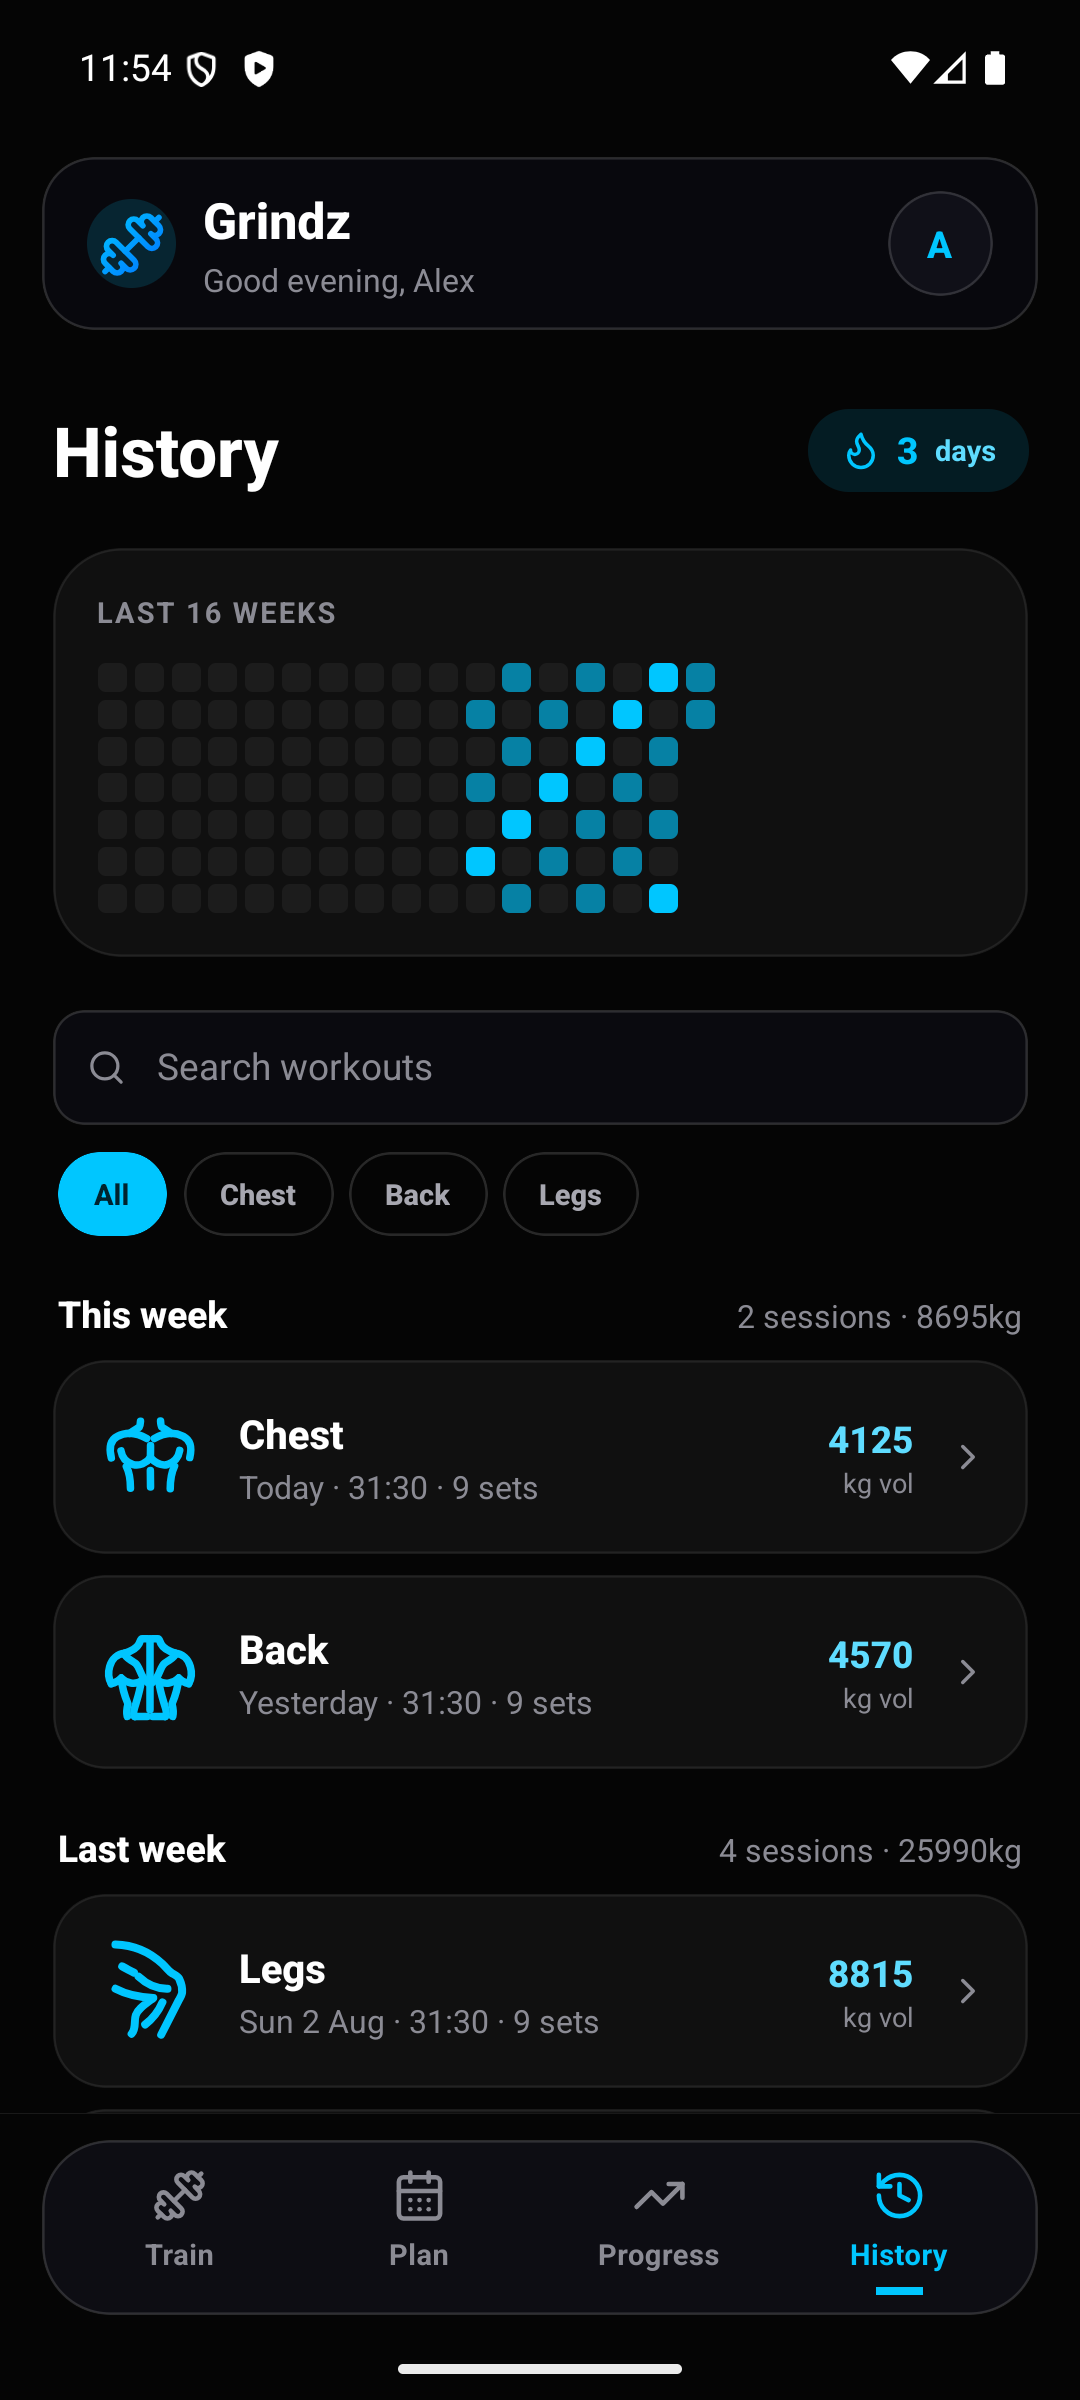
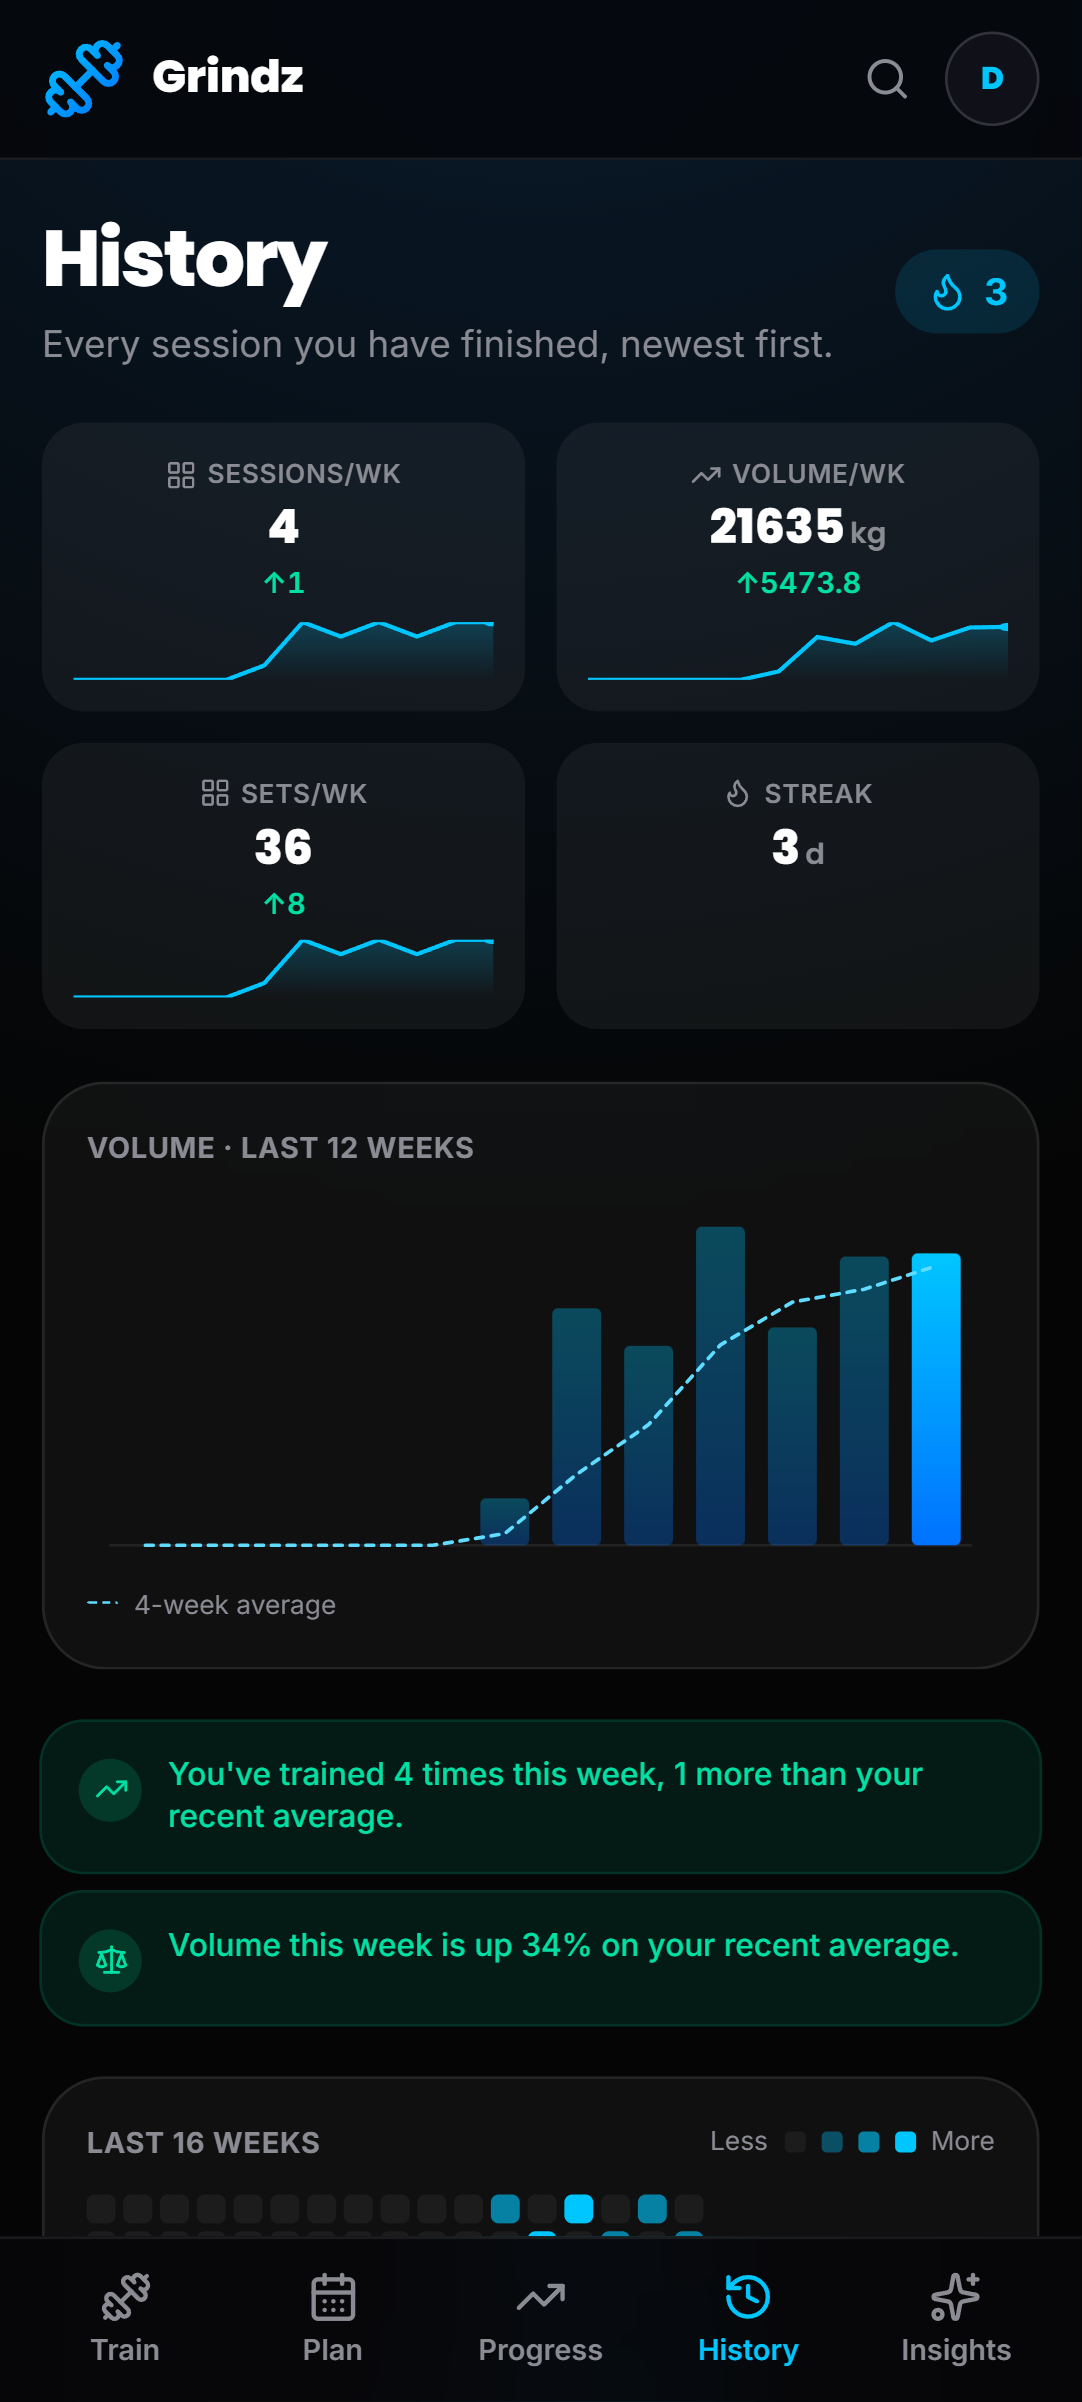
Fix AI Insights model deprecation, move Gemini key to Settings, bump v1.8.1
gemini-2.5-flash started 404ing for new callers with a NOT_FOUND error naming
gemini-3.6-flash as its replacement, which silently broke AI Insights in
production behind a generic "try again" message. Switch the model and surface
Gemini's actual error reason (API_KEY_INVALID vs. everything else) so the next
deprecation is diagnosable instead of opaque.

Also moves Gemini key entry out of the Insights screen and into Settings,
alongside the existing Groq key, per user request — Insights now only reads
the key, never collects it.

Claude-Session: https://claude.ai/code/session_014CGLVVZv4zqZUEtaJbnwhE

diff --git a/apps/mobile/src/screens/Insights.tsx b/apps/mobile/src/screens/Insights.tsx
@@ -1,10 +1,10 @@
-import { useEffect, useMemo, useState } from 'react'
-import { ActivityIndicator, Linking, ScrollView, StyleSheet, TextInput, View } from 'react-native'
+import { useEffect, useState } from 'react'
+import { ActivityIndicator, Linking, ScrollView, StyleSheet, View } from 'react-native'
 import AsyncStorage from '@react-native-async-storage/async-storage'
 import { C, R, alpha } from '../theme'
 import { T, Button, EmptyState } from '../components/ui'
 import { useData, usePrefs } from '../lib/app-context'
-import { getGeminiKey, setGeminiKey, testGeminiKey, maskKey } from '../lib/gemini'
+import { getGeminiKey, maskKey } from '../lib/gemini'
 import { buildInsightsPayload, generateInsights, NO_KEY, type AIInsightsResult, type AIInsight } from '../lib/ai-insights'
 import { IconAlert, IconChart, IconFlame, IconScale, IconSparkles, IconTrophy } from '../components/Icons'
 import { haptic } from '../lib/haptics'
@@ -49,10 +49,10 @@ export function Insights() {
   const { sessions, sets, prs, bodyweights, loading } = useData()
   const { unit } = usePrefs()
 
+  // Key management lives entirely in Settings now — this screen only reads it. Re-reading on
+  // every mount (this tab unmounts when the user switches tabs, since it's a conditional
+  // render, not a hidden one) is enough to pick up a key saved elsewhere.
   const [key, setKeyState] = useState('')
-  const [keyDraft, setKeyDraft] = useState('')
-  const [savingKey, setSavingKey] = useState(false)
-  const [keyErr, setKeyErr] = useState<string | null>(null)
 
   const [result, setResult] = useState<AIInsightsResult | null>(null)
   const [generatedAt, setGeneratedAt] = useState<string | null>(null)
@@ -70,23 +70,6 @@ export function Insights() {
   }, [])
 
   const hasEnoughData = sessions.length >= 3
-
-  const saveKey = async () => {
-    const k = keyDraft.trim()
-    if (!k) return
-    setSavingKey(true)
-    setKeyErr(null)
-    if (!(await testGeminiKey(k))) {
-      setKeyErr("That key didn't work. Check it and try again.")
-      setSavingKey(false)
-      return
-    }
-    await setGeminiKey(k)
-    setKeyState(k)
-    setKeyDraft('')
-    setSavingKey(false)
-    haptic.success()
-  }
 
   const run = async () => {
     setBusy(true)
@@ -123,21 +106,9 @@ export function Insights() {
           <T style={s.keyBody}>
             Grindz never runs its own AI backend for this — your Gemini API key talks directly to Google from your device, and only ever
             sees the numbers already on this screen (weekly totals, PRs, muscle-group balance), never your raw workout log. Get a free key at{' '}
-            <T style={{ color: C.cyanSoft }} onPress={() => Linking.openURL('https://aistudio.google.com')}>aistudio.google.com</T>.
+            <T style={{ color: C.cyanSoft }} onPress={() => Linking.openURL('https://aistudio.google.com')}>aistudio.google.com</T>,
+            then add it in Settings — tap your profile in the header.
           </T>
-          <TextInput
-            value={keyDraft}
-            onChangeText={setKeyDraft}
-            placeholder="AIza…"
-            placeholderTextColor={C.muted}
-            autoCapitalize="none"
-            autoCorrect={false}
-            secureTextEntry
-            style={[s.input, keyErr ? { borderColor: C.bad } : null]}
-            accessibilityLabel="Gemini API key"
-          />
-          {keyErr ? <T style={{ fontSize: 12, color: C.bad }} accessibilityRole="alert">{keyErr}</T> : null}
-          <Button disabled={!keyDraft.trim() || savingKey} onPress={saveKey}>{savingKey ? 'Checking…' : 'Save key'}</Button>
         </View>
       ) : (
         <View style={{ gap: 16 }}>
@@ -210,7 +181,6 @@ const s = StyleSheet.create({
   keyCard: { borderRadius: R.xxl, backgroundColor: alpha(C.cyan, 0.06), borderWidth: 1, borderColor: alpha(C.cyan, 0.25), padding: 18, gap: 10 },
   keyTitle: { fontSize: 16, fontWeight: '800' },
   keyBody: { fontSize: 13, lineHeight: 19, color: C.muted2 },
-  input: { minHeight: 44, borderRadius: R.md, borderWidth: 1, borderColor: C.line2, backgroundColor: C.panel2, paddingHorizontal: 12, color: C.ink, fontSize: 14 },
   statusRow: { flexDirection: 'row', alignItems: 'center', justifyContent: 'space-between', gap: 10, borderRadius: R.xl, borderWidth: 1, borderColor: C.line, paddingHorizontal: 14, paddingVertical: 10 },
   statusText: { flex: 1, fontSize: 11, color: C.muted },
   errBox: { borderRadius: R.xl, borderWidth: 1, borderColor: alpha(C.warn, 0.35), backgroundColor: alpha(C.warn, 0.08), paddingHorizontal: 14, paddingVertical: 12 },

diff --git a/apps/web/src/pages/Insights.tsx b/apps/web/src/pages/Insights.tsx
@@ -1,7 +1,7 @@
 import { useMemo, useState } from 'react'
 import { useNavigate } from 'react-router-dom'
 import { useData, usePrefs } from '../lib/app-context'
-import { getGeminiKey, setGeminiKey, testGeminiKey, maskKey } from '../lib/gemini'
+import { getGeminiKey, maskKey } from '../lib/gemini'
 import { buildInsightsPayload, generateInsights, NO_KEY, type AIInsightsResult, type AIInsight } from '../lib/ai-insights'
 import { Button, EmptyState } from '../components/ui'
 import { IconAlert, IconChart, IconFlame, IconScale, IconTrophy, IconSparkles } from '../components/Icons'
@@ -55,10 +55,10 @@ export function Insights() {
   const { sessions, sets, prs, bodyweights, loading } = useData()
   const { unit } = usePrefs()
 
-  const [key, setKey] = useState(() => getGeminiKey())
-  const [keyDraft, setKeyDraft] = useState('')
-  const [savingKey, setSavingKey] = useState(false)
-  const [keyErr, setKeyErr] = useState<string | null>(null)
+  // Key management lives entirely in Settings now — this screen only reads it. Re-reading on
+  // every mount (this component unmounts on tab/route change on both apps) is enough to pick
+  // up a key saved elsewhere without needing shared state just for this.
+  const [key] = useState(() => getGeminiKey())
 
   const cached = useMemo(loadCache, [])
   const [result, setResult] = useState<AIInsightsResult | null>(cached?.result ?? null)
@@ -67,23 +67,6 @@ export function Insights() {
   const [err, setErr] = useState<string | null>(null)
 
   const hasEnoughData = sessions.length >= 3
-
-  const saveKey = async () => {
-    const k = keyDraft.trim()
-    if (!k) return
-    setSavingKey(true)
-    setKeyErr(null)
-    if (!(await testGeminiKey(k))) {
-      setKeyErr("That key didn't work. Check it and try again.")
-      setSavingKey(false)
-      return
-    }
-    await setGeminiKey(k)
-    setKey(k)
-    setKeyDraft('')
-    setSavingKey(false)
-    haptic.success()
-  }
 
   const run = async () => {
     setBusy(true)
@@ -123,26 +106,9 @@ export function Insights() {
           <p className="mt-1.5 text-sm leading-relaxed text-muted2">
             Grindz never runs its own AI backend for this — your Gemini API key talks directly to Google from your device, and only ever
             sees the numbers already on this page (weekly totals, PRs, muscle-group balance), never your raw workout log. Get a free key
-            at <span className="text-cyan-soft">aistudio.google.com</span>.
+            at <span className="text-cyan-soft">aistudio.google.com</span>, then add it in <span className="text-cyan-soft">Settings</span> —
+            click your profile at the bottom of the sidebar.
           </p>
-          <div className="mt-3 flex flex-col gap-2">
-            <input
-              type="password"
-              value={keyDraft}
-              onChange={(e) => setKeyDraft(e.target.value)}
-              placeholder="AIza…"
-              autoComplete="off"
-              aria-label="Gemini API key"
-              className={cx(
-                'min-h-[44px] rounded-xl border bg-panel2 px-3 text-sm outline-none focus:ring-2 focus:ring-cyan/50 placeholder:text-muted',
-                keyErr ? 'border-bad' : 'border-line2',
-              )}
-            />
-            {keyErr && <p role="alert" className="text-xs font-semibold text-bad">{keyErr}</p>}
-            <Button disabled={!keyDraft.trim() || savingKey} onClick={saveKey}>
-              {savingKey ? 'Checking…' : 'Save key'}
-            </Button>
-          </div>
         </div>
       ) : (
         <>

diff --git a/apps/web/src/lib/ai-insights.ts b/apps/web/src/lib/ai-insights.ts
@@ -33,7 +33,13 @@ export const NO_KEY = 'Add your Gemini API key in Settings to generate insights.
 const BAD_KEY = "Your Gemini API key isn't working. Check it in Settings."
 const GENERIC = "Couldn't generate insights. Try again in a moment."
 const TIMEOUT_MS = 30_000
-const MODEL = 'gemini-2.5-flash'
+/**
+ * Google retires Gemini model ids faster than this file gets touched — gemini-2.5-flash
+ * (the original choice here) started 404ing for new callers within weeks, with the error
+ * body naming its own replacement. If this ever 404s with NOT_FOUND again, the fix is to
+ * read the model name Google's error suggests and swap it in here, not to guess.
+ */
+const MODEL = 'gemini-3.6-flash'
 const RECENT_SESSIONS = 8
 const TOP_PRS = 12
 
@@ -230,11 +236,16 @@ export async function generateInsights(payload: InsightsPayload): Promise<AIInsi
     // (e.g. a malformed request on our side), which would otherwise wrongly tell the user
     // to go check a key that was fine all along.
     const body = (await res.json().catch(() => null)) as { error?: { status?: string; message?: string } } | null
-    const reason = `${body?.error?.status ?? ''} ${body?.error?.message ?? ''}`
+    const reason = `${body?.error?.status ?? ''} ${body?.error?.message ?? ''}`.trim()
     if (res.status === 401 || res.status === 403 || /API_KEY_INVALID|PERMISSION_DENIED|UNAUTHENTICATED/i.test(reason)) {
       throw new Error(BAD_KEY)
     }
-    throw new Error(GENERIC)
+    // Everything else (a retired model id, a malformed request, a transient 5xx) collapsed
+    // into one opaque message here originally — which is exactly what hid a real model
+    // deprecation (gemini-2.5-flash 404ing with "no longer available to new users") behind
+    // "try again in a moment" instead of a diagnosable reason. Surface what Google actually
+    // said; it costs nothing when the message is empty and saves a guessing session when it isn't.
+    throw new Error(reason ? `${GENERIC} (${reason})` : GENERIC)
   }
 
   const j = (await res.json().catch(() => null)) as { candidates?: { content?: { parts?: { text?: string }[] } }[] } | null

diff --git a/apps/mobile/src/lib/ai-insights.ts b/apps/mobile/src/lib/ai-insights.ts
@@ -33,7 +33,13 @@ export const NO_KEY = 'Add your Gemini API key in Settings to generate insights.
 const BAD_KEY = "Your Gemini API key isn't working. Check it in Settings."
 const GENERIC = "Couldn't generate insights. Try again in a moment."
 const TIMEOUT_MS = 30_000
-const MODEL = 'gemini-2.5-flash'
+/**
+ * Google retires Gemini model ids faster than this file gets touched — gemini-2.5-flash
+ * (the original choice here) started 404ing for new callers within weeks, with the error
+ * body naming its own replacement. If this ever 404s with NOT_FOUND again, the fix is to
+ * read the model name Google's error suggests and swap it in here, not to guess.
+ */
+const MODEL = 'gemini-3.6-flash'
 const RECENT_SESSIONS = 8
 const TOP_PRS = 12
 

diff --git a/README.md b/README.md
@@ -11,7 +11,7 @@ installable web app over a shared Supabase backend, muscle map palette, and imag
 
 <br/>
 
-[![Download APK](https://img.shields.io/badge/Download-Grindz%20v1.8.0%20APK-00c6ff?style=for-the-badge&logo=android&logoColor=white)](../../releases/latest)
+[![Download APK](https://img.shields.io/badge/Download-Grindz%20v1.8.1%20APK-00c6ff?style=for-the-badge&logo=android&logoColor=white)](../../releases/latest)
 [![Install guide](https://img.shields.io/badge/How%20to%20install-555?style=for-the-badge)](docs/INSTALL.md)
 [![Open in browser](https://img.shields.io/badge/Open%20in%20browser-0072ff?style=for-the-badge)](https://app.grindz.dev)
 
@@ -48,6 +48,27 @@ you keep skipping is impossible to miss.
 <img src="docs/screenshots/phone/progress-female.png" width="30%" alt="The female muscle map" />
 
 <sub>One switch in Settings changes both the photo set and the muscle map, on Android and on the web</sub>
+
+</div>
+
+📊 **A DASHBOARD, NOT A LIST** - History leads with a momentum strip (sessions, volume and sets per week, trending against your recent average), a 12-week volume chart, and plain-English notes on what actually changed. Every session opens onto a muscle map of exactly what that session trained, a comparison against your last few sessions in the category, and a set-by-set bar chart where length is weight and colour is effort — so a session reads as a shape, not a column of numbers.
+
+<div align="center">
+
+<img src="docs/screenshots/phone/history.png" width="30%" alt="History, with the weekly momentum strip and volume trend" />
+<img src="docs/screenshots/phone/session-detail.png" width="30%" alt="Session detail, with a muscle map of that session" />
+
+<sub>The heatmap, the loaded filter chips and the per-set bars all come from the same numbers you were already logging — just drawn instead of listed</sub>
+
+</div>
+
+✨ **AI INSIGHTS** - Bring your own free Gemini key and get a plain-English read on your training: a headline, a handful of specific observations, and a suggested focus. Gemini only ever sees numbers Grindz has already computed — weekly totals, PR history, muscle-group balance — never your raw logged sets, so it's explaining your training, not guessing at it.
+
+<div align="center">
+
+<img src="docs/screenshots/phone/insights.png" width="30%" alt="AI Insights, showing a generated headline and observations" />
+
+<sub>Real output from a real key against real seeded data — nothing in this screenshot is placeholder text</sub>
 
 </div>
 
